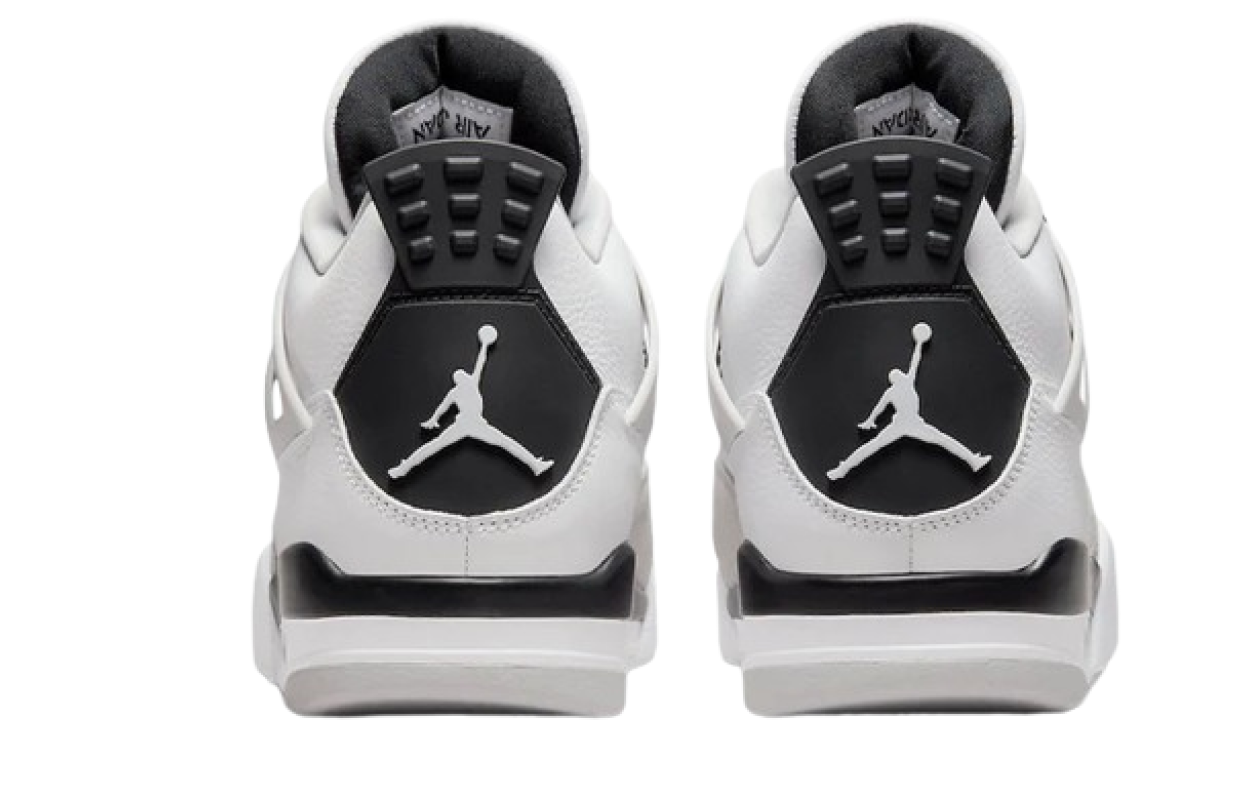
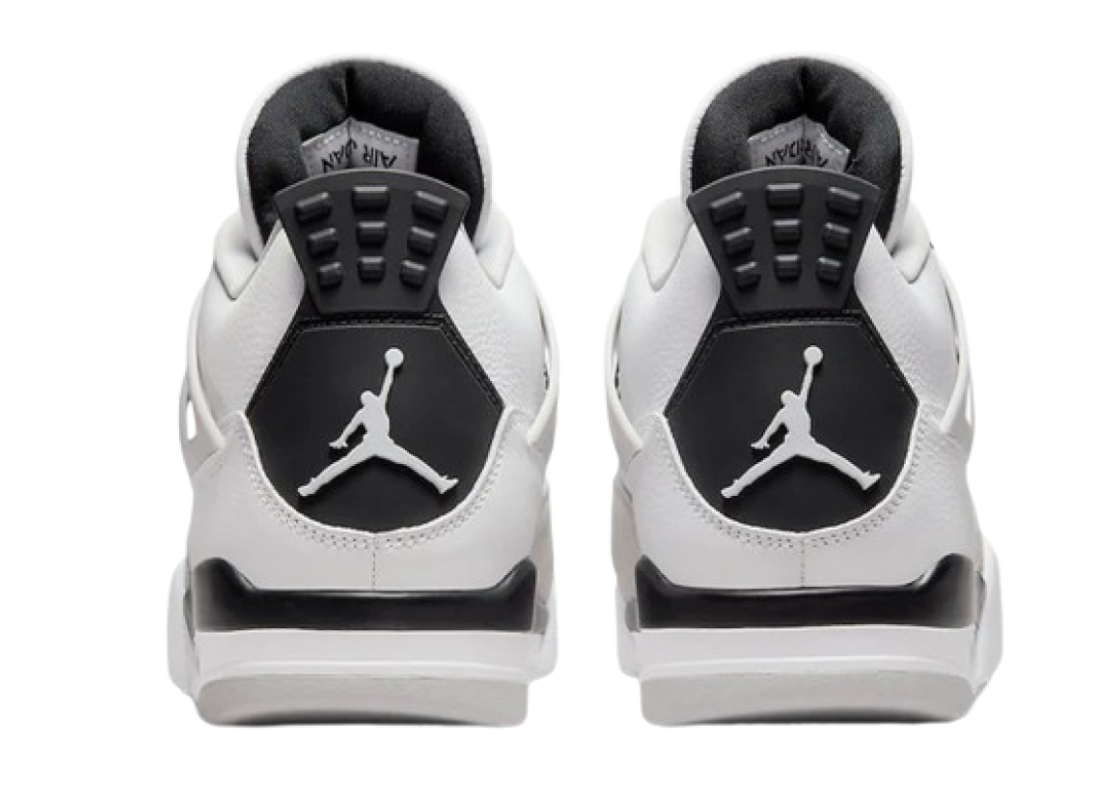
Air Jordan képek méretez

Changed region(s): [[0.1527, 0.0312, 0.9164, 0.9375], [0.8553, 0.5938, 0.8859, 0.625]]

diff --git a/cipok/Nike_Air_Jordan_4.html b/cipok/Nike_Air_Jordan_4.html
@@ -30,11 +30,11 @@
                   <img src="../img/cipők/főoldal/Air Jordan 4 1.png" class="d-block w-100" alt="...">
                 </div>
                 <div class="carousel-item" data-bs-interval="2000">
-                  <img src="../img/cipők/Air Jordan 4/Air Jordan 4 2.png" class="d-block w-100" alt="..." style="margin-top: 50px;">
+                  <img src="../img/cipők/Air Jordan 4/Air Jordan 4 2.png" class="d-block w-100" alt="...">
   
                 </div>
                 <div class="carousel-item">
-                  <img src="../img/cipők/Air Jordan 4/Air Jordan 4 3.png" class="d-block w-100" alt="..." style="margin-top: 20px;">
+                  <img src="../img/cipők/Air Jordan 4/Air Jordan 4 3.png" class="d-block w-100" alt="...">
                 </div>
               </div>
               <button class="carousel-control-prev" type="button" data-bs-target="#carouselExampleDark" data-bs-slide="prev">
